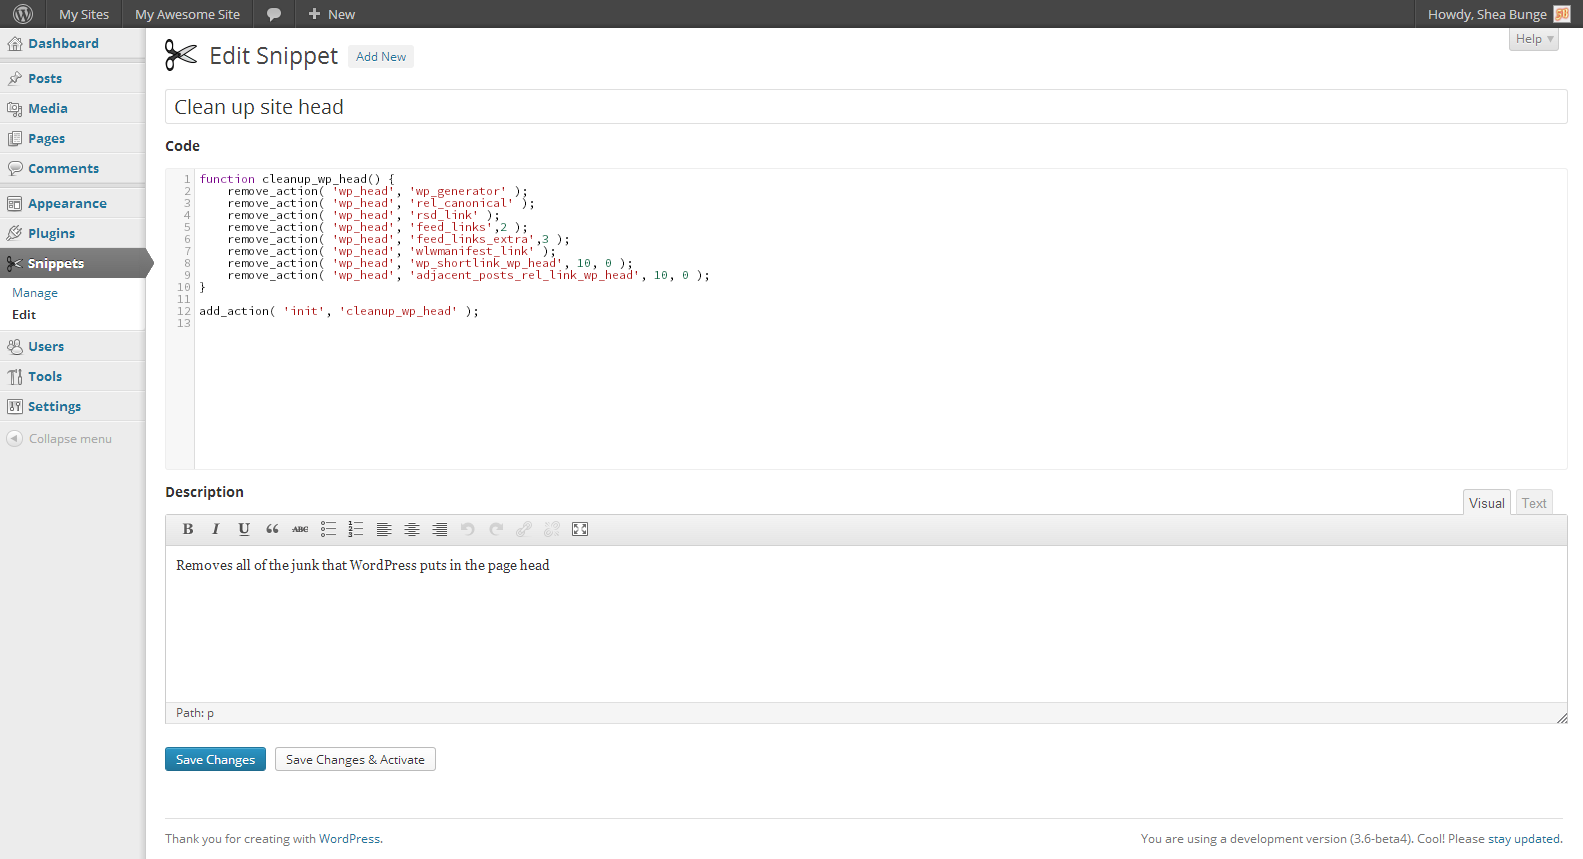
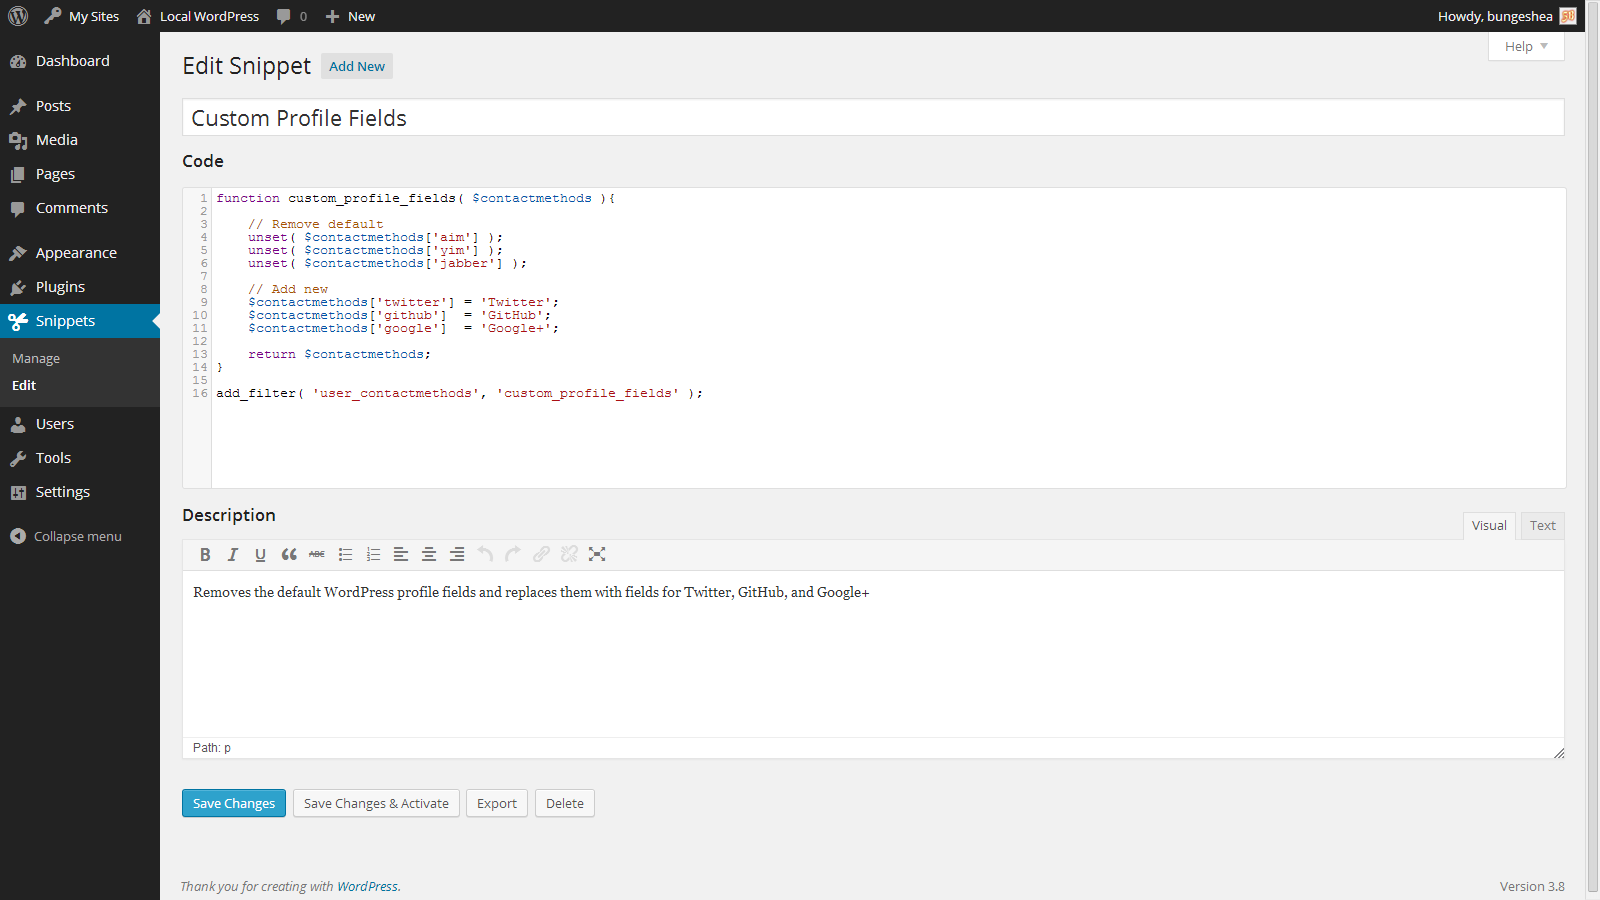
Update screenshots for WP 3.8 and Code Snippets 1.9.1

Changed region(s): [[0.0, 0.0, 1.0, 1.0]]

diff --git a/README.md b/README.md
@@ -130,9 +130,6 @@ That's fantastic! Join me on [GitHub](http://github.com/bungeshea/code-snippets)
 ### Importing snippets from an XML file
 ![Importing snippets from an XML file](screenshots/screenshot-4.png "Importing snippets from an XML file")
 
-### Managing exiting snippets in the MP6 interface
-![Managing exiting snippets in the MP6 interface](screenshots/screenshot-5.png "Managing exiting snippets in the MP6 interface")
-
   [support]: http://wordpress.org/support/plugin/code-snippets/
   [github]: https://github.com/bungeshea/code-snippets
   [homepage]: http://code-snippets.bungeshea.com
